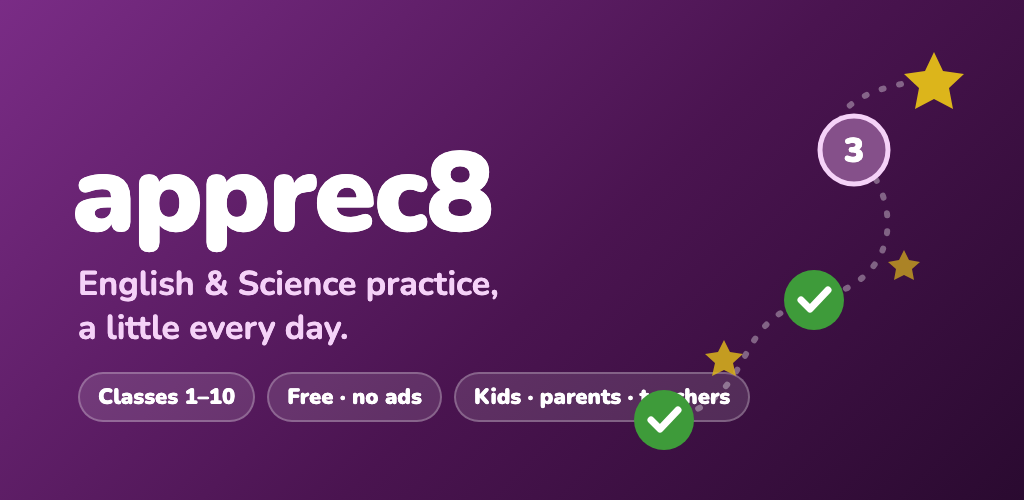
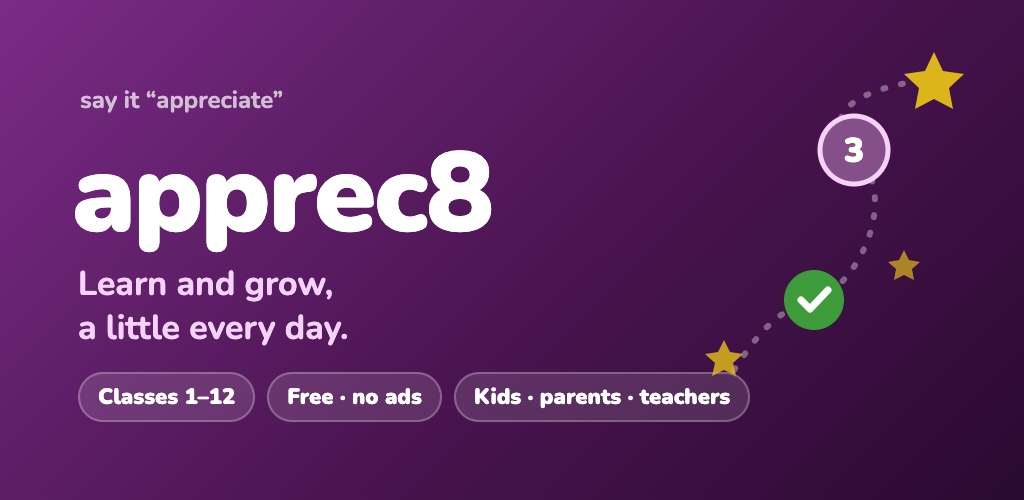
store: broad name "Apprec8: Learn & Grow" (owner: maths, reasoning, well-being coming), short + full description, feature graphic draft 2 (say it appreciate, Classes 1–12)

diff --git a/docs/release/graphics/feature-graphic.html b/docs/release/graphics/feature-graphic.html
@@ -4,17 +4,18 @@
 html,body{margin:0;width:1024px;height:500px;overflow:hidden}
 .g{width:1024px;height:500px;position:relative;background:linear-gradient(135deg,#7a2c86 0%,#4a1450 55%,#2a0a30 100%);font-family:Nunito,system-ui,sans-serif;color:#fff}
 .word{position:absolute;left:72px;top:118px;font-size:112px;font-weight:900;letter-spacing:-2px}
+.say{position:absolute;left:80px;top:84px;font-size:24px;font-weight:700;color:rgba(255,255,255,.7)}
 .tag{position:absolute;left:78px;top:262px;font-size:34px;font-weight:700;color:#F5D2F8;line-height:1.3}
 .pills{position:absolute;left:78px;top:372px;display:flex;gap:12px}
 .pill{font-size:22px;font-weight:800;padding:8px 18px;border-radius:999px;background:rgba(255,255,255,.12);border:2px solid rgba(255,255,255,.25)}
 svg{position:absolute;right:40px;top:40px}
 </style></head><body><div class="g">
 <div class="word">apprec8</div>
-<div class="tag">English &amp; Science practice,<br>a little every day.</div>
-<div class="pills"><div class="pill">Classes 1–10</div><div class="pill">Free · no ads</div><div class="pill">Kids · parents · teachers</div></div>
+<div class="say">say it “appreciate”</div>
+<div class="tag">Learn and grow,<br>a little every day.</div>
+<div class="pills"><div class="pill">Classes 1–12</div><div class="pill">Free · no ads</div><div class="pill">Kids · parents · teachers</div></div>
 <svg width="380" height="420" viewBox="0 0 380 420">
-  <path d="M60 380 C 160 360, 120 280, 210 260 S 300 160, 250 110 S 300 40, 330 40" fill="none" stroke="rgba(255,255,255,.35)" stroke-width="6" stroke-dasharray="2 16" stroke-linecap="round"/>
-  <g><circle cx="60" cy="380" r="30" fill="#3E9B3A"/><path d="M47 380 l9 9 l18 -19" stroke="#fff" stroke-width="7" fill="none" stroke-linecap="round" stroke-linejoin="round"/></g>
+  <path d="M130 330 C 150 300, 170 270, 210 260 S 300 160, 250 110 S 300 40, 330 40" fill="none" stroke="rgba(255,255,255,.35)" stroke-width="6" stroke-dasharray="2 16" stroke-linecap="round"/>
   <g><circle cx="210" cy="260" r="30" fill="#3E9B3A"/><path d="M197 260 l9 9 l18 -19" stroke="#fff" stroke-width="7" fill="none" stroke-linecap="round" stroke-linejoin="round"/></g>
   <g><circle cx="250" cy="110" r="34" fill="#85508a" stroke="#F5D2F8" stroke-width="5"/><text x="250" y="122" text-anchor="middle" font-family="Nunito" font-weight="900" font-size="34" fill="#fff">3</text></g>
   <g fill="#dcb51b"><path d="M330 12 l9 19 l21 3 l-15 14 l4 21 l-19 -10 l-19 10 l4 -21 l-15 -14 l21 -3z"/></g>

diff --git a/docs/release/STORE_LISTING.md b/docs/release/STORE_LISTING.md
@@ -2,21 +2,23 @@
 
 **Feature graphic (1024×500), draft:**
 
-![Feature graphic](https://cdn.jsdelivr.net/gh/mohitcnsia/images@main/apprec8-feature-graphic-draft1.png)
+![Feature graphic](https://cdn.jsdelivr.net/gh/mohitcnsia/images@main/apprec8-feature-graphic-draft2.png)
 
 App icon: the app's own (assets/icon.png, 512×512). Screenshots: Gemini G43.
 
 For parents and teachers (they choose the app), in plain words. No exam names (they belong to other organisations,
 and we don't claim to prepare for any one exam). Owner checks; Seema checks the tone.
 
-**App name (30 max):** Apprec8: English & Science (26). The earlier draft "Apprec8: Learn English & Science" was 32: too long.
+**App name (30 max):** Apprec8: Learn & Grow (21). Broad on purpose (owner 2026-11-06: Maths, reasoning and well-being
+are coming; don't box the app into two subjects). Subjects go in the descriptions, which we update as they arrive.
+Not "Wellbeing" in the name: Play may then treat it as a health app (extra forms).
 
-**Short description (80 max, 78 used):**
-Fun, calm practice in English and Science for Classes 1–10. Free, with no ads.
+**Short description (80 max, 77 used):**
+Fun, calm daily learning for Classes 1–12: English, Science and more. No ads.
 
 **Full description:**
 
-Apprec8 (say it "appreciate") helps children practise English and Science a little every day, at their own pace.
+Apprec8 (say it "appreciate") helps children learn a little every day, at their own pace: English and Science today, with Maths and reasoning coming next.
 
 📚 LEARN BY DOING
 • English Quest: grammar, words and reading, from first sentences to Class 10 grammar (tenses, modals, reported
@@ -54,6 +56,6 @@ Made in India by a parent, with a teacher, for children.
 **Privacy policy:** https://failedcommit.github.io/app-policies/privacy-policy.html
 
 **Check before using:**
-- "Classes 1–10" and the Class 10 grammar line: checked 2026-11-06: quests cover Classes 1–12 together; Science is Classes 3–5 only.
+- "Classes 1–12" and the Class 10 grammar line: checked 2026-11-06: quests cover Classes 1–12 together; Science is Classes 3–5 only.
 - "A parent says yes before a child's progress is saved" is true only once row X (C4) ships. Until then, remove that line.
 - "Several children on one phone … timer": Play as + play time (20.0.29).
